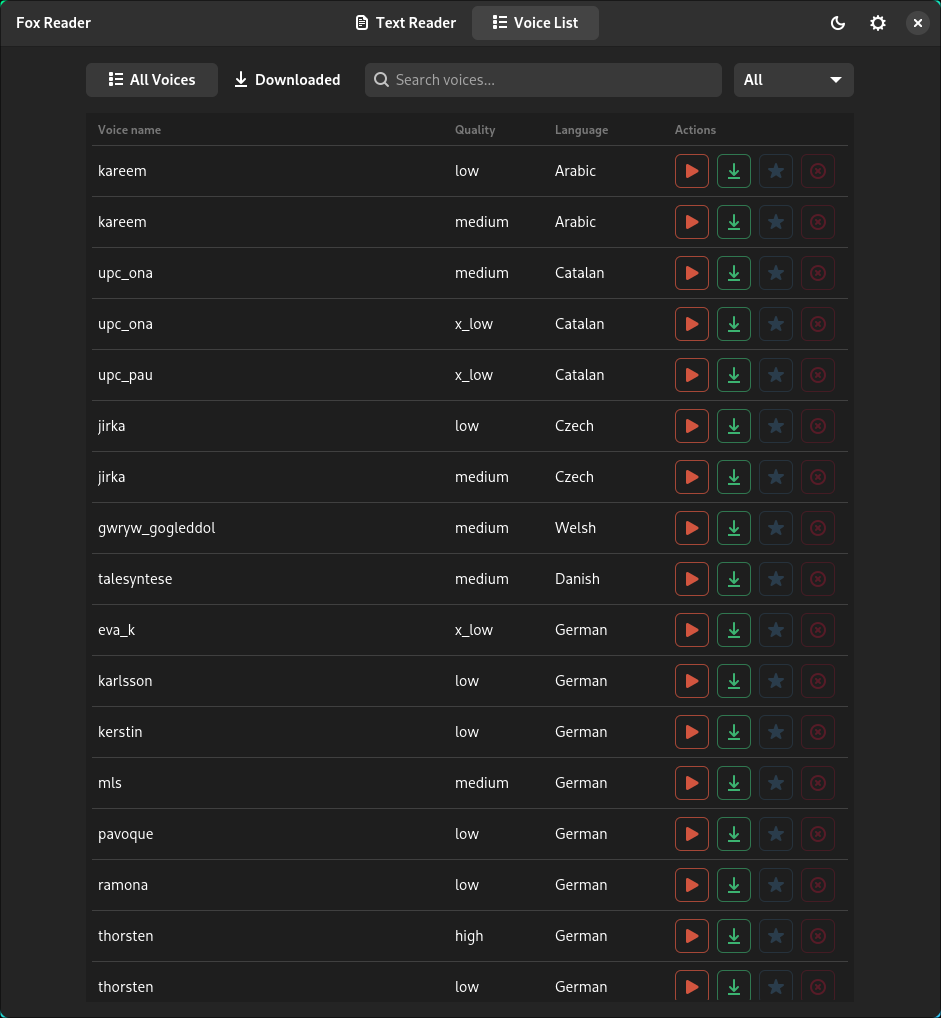
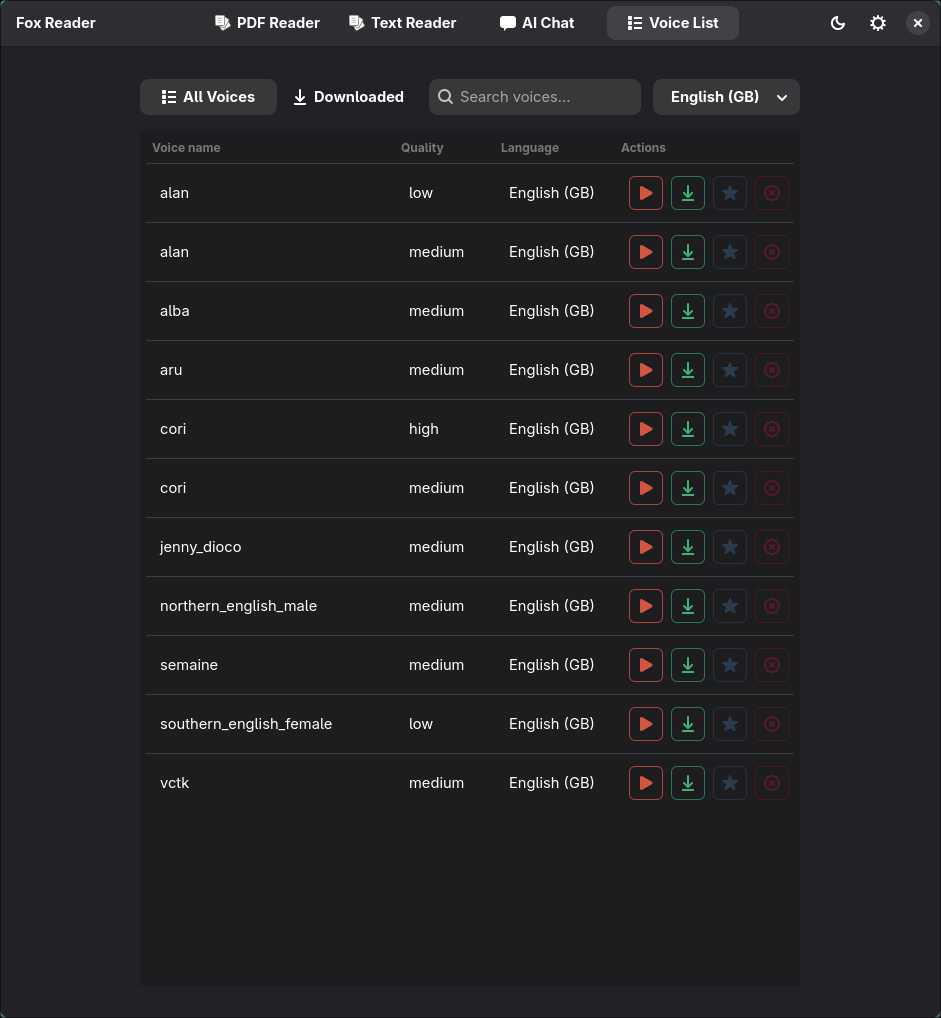
update images in readme

diff --git a/README.md b/README.md
@@ -6,7 +6,9 @@ converts text to speech using all voices from
 
 ## Current UI:
 
-![Text to Speech Interface](assets/test_to_speach.png)
+![PDF Reader](assets/pdf_reader.png)
+
+![AI Chat](assets/ai_voice_chat.png)
 
 ![Voice List](assets/voice_list.png)
 
